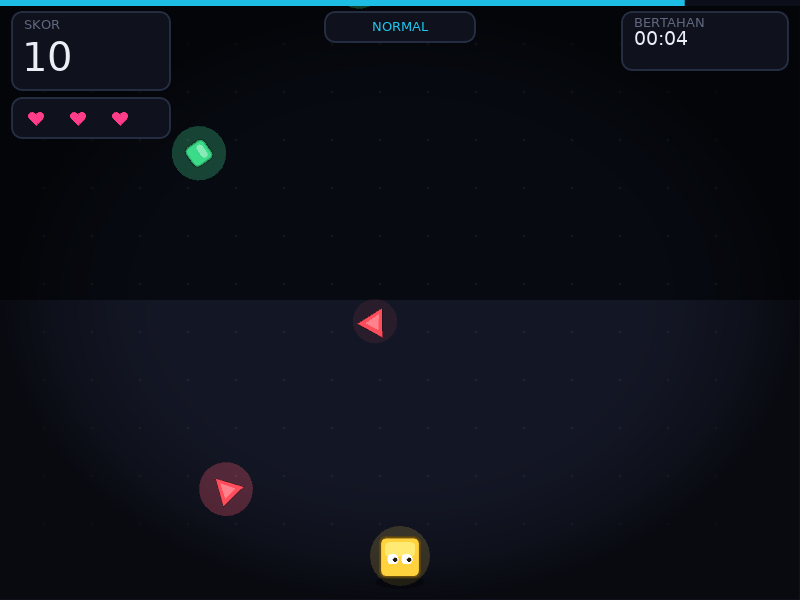
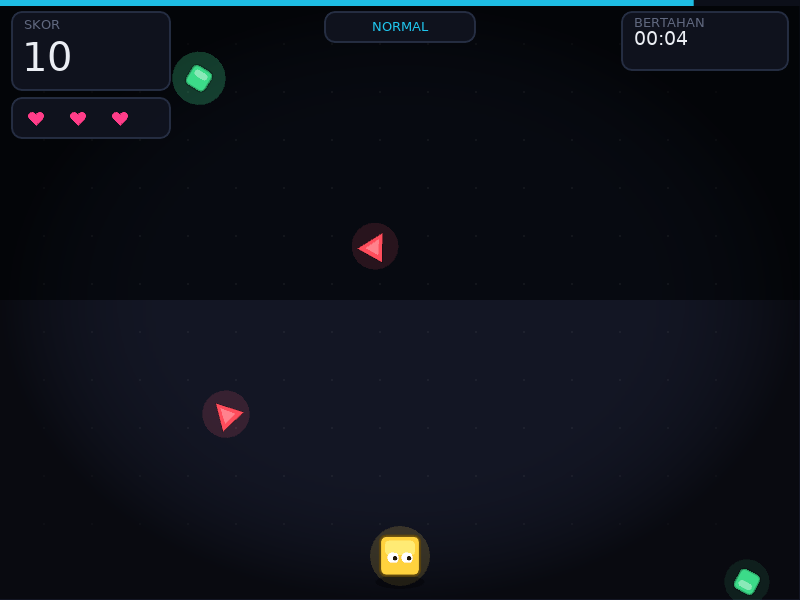
feat: v1.2.0 - combo, mute, ten rules, richer look (#5)
* feat: add combo streak, mute, hint banners and two new rules

Combo multiplier x1-x5, every fourth consecutive catch raises it. Mute with M anywhere. Every rule carries an Indonesian hint shown under the banner text. New rules HUJAN (double spawn, tag spawn) and SKOR GANDA (double score, tag scoring). Arena background pre-rendered to a canvas for perf. Best combo persisted. errorhandler fails fast instead of hanging the window.

* chore: prepare v1.2.0 and refresh screenshots

CHANGELOG promoted to v1.2.0 in English and Indonesian. README references the v1.2.0 artifacts. main.lua now fails fast with a printed error and a non-zero exit when running with --screenshot instead of hanging the window. Screenshots regenerated on the new design.

diff --git a/README.id.md b/README.id.md
@@ -1,4 +1,4 @@
-<div align="center">
+<div align="center">
   <img src="assets/brand/icon-512.png" alt="Flip30 logo" width="120" />
   <h1>Flip30: Aturan Berganti Setiap 30 Detik</h1>
   <p><b>Tangkap makanan, hindari musuh, dan beradaptasi setiap 30 detik<br/>saat aturan berubah di depan matamu.</b></p>
@@ -66,15 +66,17 @@
 | **Kesulitan** | Kecepatan jatuh dan laju spawn naik seiring waktu; kamu punya tiga nyawa per sesi |
 | **Skor terbaik** | Skor tertinggi disimpan secara lokal di `highscore.txt`, dirayakan saat rekor baru |
 | **Timer bertahan** | HUD menampilkan berapa lama kamu bertahan, mm:ss |
+| **Combo** | Setiap 4 tangkapan berturut-turut menaikkan multiplier sampai x5; kena musuh meresetnya |
 | **Dua aturan di menit kedua** | Setelah menit ke-2, dua aturan aktif bersamaan; keduanya tidak boleh punya tag yang sama |
 | **Pause** | Tekan P untuk menjeda aksi, tekan P lagi untuk lanjut |
+| **Mute** | Tekan M untuk membisukan SFX, di mana pun |
 
 ### Aturan yang berganti timer
 
 | Fitur | Deskripsi |
 | --- | --- |
 | **Ganti aturan 30 detik** | Setiap 30 detik aturan yang aktif di-revert dan aturan acak baru di-apply |
-| **Delapan aturan** | KONTROL TERBALIK, GRAVITASI MATI, GRAVITASI NAIK, MUSUH JADI POIN, TUKAR WARNA, LAYAR GELAP, SEMUA 2X CEPAT, TIDAK BISA BERHENTI |
+| **Sepuluh aturan** | KONTROL TERBALIK, GRAVITASI MATI, GRAVITASI NAIK, MUSUH JADI POIN, TUKAR WARNA, LAYAR GELAP, SEMUA 2X CEPAT, TIDAK BISA BERHENTI, HUJAN, SKOR GANDA |
 | **Pilihan adil** | Aturan yang sama tidak pernah aktif dua kali berturut-turut; aturan dengan tag yang sama tidak pernah aktif bersamaan |
 | **Banner pengumuman** | Banner besar selama dua detik saat action melambat ke 0.3x |
 | **Progress bar** | Bar timer tipis di bagian atas layar |
@@ -98,7 +100,7 @@
 
 | Fitur | Deskripsi |
 | --- | --- |
-| **Test headless** | 197 assertion berjalan di bawah LuaJIT di CI |
+| **Test headless** | 227 assertion berjalan di bawah LuaJIT di CI |
 | **Kode terformat** | StyLua diwajibkan secara lokal dan di CI |
 | **Mode artwork** | Capture `--screenshot` deterministik yang dipakai di README ini |
 | **Kanvas responsif** | Virtual canvas 800x600 di-letterbox ke ukuran jendela apa pun |
@@ -137,11 +139,11 @@
 ### Opsi A: Unduh build siap pakai (paling mudah)
 
 1. Buka halaman [Releases](https://github.com/nekonaru/flip30/releases)
-2. Unduh `flip30-1.1.0-win64.zip` di Windows, atau `flip30-1.1.0.love` di platform lain
-3. Windows: extract zip ke mana saja lalu jalankan `Flip30.exe`. Platform lain: instal LÖVE 11.5, lalu jalankan `love flip30-1.1.0.love`
+2. Unduh `flip30-1.2.0-win64.zip` di Windows, atau `flip30-1.2.0.love` di platform lain
+3. Windows: extract zip ke mana saja lalu jalankan `Flip30.exe`. Platform lain: instal LÖVE 11.5, lalu jalankan `love flip30-1.2.0.love`
 
 > [!IMPORTANT]
-> Gunakan `flip30-1.1.0-win64.zip` di Windows. Gunakan `flip30-1.1.0.love` hanya dengan instalasi LÖVE 11.5 terpisah.
+> Gunakan `flip30-1.2.0-win64.zip` di Windows. Gunakan `flip30-1.2.0.love` hanya dengan instalasi LÖVE 11.5 terpisah.
 
 ### Opsi B: Build dari source (untuk development / untuk membaca atau mengubah kode)
 
@@ -190,7 +192,7 @@ Di Windows, cara tercepat adalah `winget install --id Love2d.Love2d -e`.
 love .
 ```
 
-Menu terbuka dan game langsung bisa dimainkan. Untuk menghasilkan artifact rilis (`.love` archive dan build Windows), jalankan `scripts/build.ps1 -Version 1.1.0` di Windows.
+Menu terbuka dan game langsung bisa dimainkan. Untuk menghasilkan artifact rilis (`.love` archive dan build Windows), jalankan `scripts/build.ps1 -Version 1.2.0` di Windows.
 
 ---
 
@@ -209,7 +211,8 @@ Menu terbuka dan game langsung bisa dimainkan. Untuk menghasilkan artifact rilis
 
 - **Bergerak**: A/D atau tombol panah
 - **Pause**: P untuk menjeda, P untuk lanjut; ESC ke menu
-- **Tangkap makanan**: catatan hijau, +10 poin
+- **Mute**: M, di mana pun
+- **Tangkap makanan**: catatan hijau, +10 poin, dan streak combo naik sampai x5
 - **Hindari musuh**: segitiga merah, -1 nyawa, kamu mulai dengan 3
 - **Bertahan**: makin lama kamu bertahan, makin cepat gamenya; setelah menit ke-2 dua aturan bisa aktif bersamaan
 - **Main lagi**: Enter atau Space di layar game over; Esc kembali ke menu atau keluar
@@ -282,7 +285,7 @@ stylua --check .
 
 | Check | Requirement |
 | --- | --- |
-| `luajit tests/headless_tests.lua` | Semua 197 assertion lolos |
+| `luajit tests/headless_tests.lua` | Semua 227 assertion lolos |
 | `stylua --check .` | Tidak ada output (tidak ada diff) |
 
 Formatting dikonfigurasi di `stylua.toml`.

diff --git a/README.md b/README.md
@@ -1,4 +1,4 @@
-<div align="center">
+<div align="center">
   <img src="assets/brand/icon-512.png" alt="Flip30 logo" width="120" />
   <h1>Flip30: The Rules Change Every 30 Seconds</h1>
   <p><b>Catch the food, dodge the enemies, and adapt every 30 seconds<br/>as the rules flip out from under you.</b></p>
@@ -61,22 +61,24 @@
 
 | Feature | Description |
 | --- | --- |
-| **Player** | Slide the 40x40 sticky note with A/D or the arrow keys, clamped to the arena |
+| **Player** | Slide the 40x40 sticky note with A/D or the arrow keys, clamped to the arena. Eyes track where it is heading |
 | **Objects** | Green food is +10 points, red enemies cost 1 life, played on an 800x600 canvas |
 | **Difficulty** | Fall speed and spawn rate ramp up over time; you get three lives per run |
 | **High score** | Best score saved locally to `highscore.txt`, celebrated on a new record |
 | **Survival timer** | The HUD shows how long you have lasted, mm:ss |
+| **Combo** | Every 4 catches in a row raises the multiplier, up to x5; an enemy hit resets it |
 | **Two rules at two minutes** | Past 2:00, two rules run at once; they never share a tag |
 | **Pause** | Press P to freeze the action and P again to resume |
+| **Mute** | Press M to silence SFX, anywhere |
 
 ### Rules on a timer
 
 | Feature | Description |
 | --- | --- |
 | **Thirty second flips** | Every 30 seconds the active rule is reverted and a random one is applied |
-| **Eight rules** | KONTROL TERBALIK, GRAVITASI MATI, GRAVITASI NAIK, MUSUH JADI POIN, TUKAR WARNA, LAYAR GELAP, SEMUA 2X CEPAT, TIDAK BISA BERHENTI |
+| **Ten rules** | KONTROL TERBALIK, GRAVITASI MATI, GRAVITASI NAIK, MUSUH JADI POIN, TUKAR WARNA, LAYAR GELAP, SEMUA 2X CEPAT, TIDAK BISA BERHENTI, HUJAN, SKOR GANDA |
 | **Fair picks** | Never the same rule twice in a row; rules sharing a tag are never active together |
-| **Announcement banner** | Big two second banner while the action slows to 0.3x |
+| **Announcement banner** | Big two second banner with a description line while the action slows to 0.3x |
 | **Countdown bar** | Thin timer bar across the top of the screen |
 
 ### Look and feel
@@ -98,7 +100,7 @@
 
 | Feature | Description |
 | --- | --- |
-| **Headless tests** | 197 assertions run under LuaJIT in CI |
+| **Headless tests** | 227 assertions run under LuaJIT in CI |
 | **Formatted code** | StyLua enforced locally and in CI |
 | **Artwork mode** | Deterministic `--screenshot` captures used for this README |
 | **Responsive canvas** | 800x600 virtual canvas letterboxed to any window size |
@@ -137,11 +139,11 @@
 ### Option A: Download the prebuilt build (easiest)
 
 1. Open the [Releases](https://github.com/nekonaru/flip30/releases) page
-2. Download `flip30-1.1.0-win64.zip` on Windows, or `flip30-1.1.0.love` on other platforms
-3. Windows: extract the zip anywhere and run `Flip30.exe`. Other platforms: install LÖVE 11.5, then run `love flip30-1.1.0.love`
+2. Download `flip30-1.2.0-win64.zip` on Windows, or `flip30-1.2.0.love` on other platforms
+3. Windows: extract the zip anywhere and run `Flip30.exe`. Other platforms: install LÖVE 11.5, then run `love flip30-1.2.0.love`
 
 > [!IMPORTANT]
-> Use `flip30-1.1.0-win64.zip` on Windows. Use `flip30-1.1.0.love` only with a separate LÖVE 11.5 install.
+> Use `flip30-1.2.0-win64.zip` on Windows. Use `flip30-1.2.0.love` only with a separate LÖVE 11.5 install.
 
 ### Option B: Build from source (for development / to read or change the code)
 
@@ -190,7 +192,7 @@ On Windows, the fastest install is `winget install --id Love2d.Love2d -e`.
 love .
 ```
 
-The menu opens and the game is fully playable. To produce the release artifacts (`.love` archive and Windows build), run `scripts/build.ps1 -Version 1.1.0` on Windows.
+The menu opens and the game is fully playable. To produce the release artifacts (`.love` archive and Windows build), run `scripts/build.ps1 -Version 1.2.0` on Windows.
 
 ---
 
@@ -209,7 +211,8 @@ The menu opens and the game is fully playable. To produce the release artifacts 
 
 - **Move**: A/D or the arrow keys
 - **Pause**: P to pause, P to resume; ESC to menu
-- **Catch food**: green note, +10 points
+- **Mute**: M, anywhere
+- **Catch food**: green note, +10 points, and a combo streak builds up to x5
 - **Avoid enemies**: red triangle, -1 life, you start with 3
 - **Survive**: the longer you last, the faster the game gets; past 2:00 two rules can run at once
 - **Restart**: Enter or Space on the game over screen; Esc returns to the menu or quits

diff --git a/CHANGELOG.id.md b/CHANGELOG.id.md
@@ -2,6 +2,23 @@
 
 Perubahan Flip30 didokumentasikan di sini. Bahasa Inggris adalah sumbernya; Bahasa Indonesia (file ini) adalah terjemahan yang selalu selaras.
 
+## v1.2.0
+
+Upgrade terbesar sejauh ini: combo scoring, dua aturan baru, dan presentasi paling kaya.
+
+### Fitur baru
+
+- **Streak combo.** Setiap 4 tangkapan berturut-turut menaikkan multiplier skor sebesar satu level, maksimal x5. Kena musuh meresetnya. Combo terbaik sepanjang masa disimpan secara lokal dan ditampilkan di layar game over.
+- **Mute.** Tekan M untuk membisukan semua SFX, di mana pun.
+- **Sepuluh aturan.** Dua aturan baru: `HUJAN` (laju spawn dua kali lipat, tag `spawn`) dan `SKOR GANDA` (semua poin dikali dua, tag `scoring`). Setiap aturan sekarang membawa deskripsi Indonesia yang tampil di bawah teks banner.
+- **Mata sticky note.** Mata player mengikuti arah gerak, dengan bob idle dan squash and stretch saat kena hit.
+- **Tampilan lebih kaya.** Arena gradasi yang di-prerender dengan dot grid dan vignette, glow halo additive, objek jatuh berputar atau bergoyang, HUD chip (skor, nyawa, pill aturan, timer bertahan, chip combo, chip mute, chip 2x di fase dua aturan), siluet jatuh di belakang menu, banner dengan garis deskripsi dan border neon, dan pitch SFX swap berbeda per tag.
+
+### Peningkatan
+
+- **Peralatan rilis.** `scripts/build.ps1` membaca format changelog terkini, menghasilkan release notes dwi-bahasa Inggris dan Indonesia dengan Install / Update dan tabel SHA-256, dan menyertakan dokumen Indonesia ke dalam build Windows.
+- **Test headless.** 227 assertion termasuk cakupan eskalasi dua aturan dan combo multiplier.
+
 ## v1.1.0
 
 Rilis kedua Flip30, fokus pada feel, antarmuka, dan fase late game.

diff --git a/CHANGELOG.md b/CHANGELOG.md
@@ -2,6 +2,23 @@
 
 Changes to Flip30 are documented here. English is the source; Indonesian ([CHANGELOG.id.md](CHANGELOG.id.md)) is a faithful translation kept in sync.
 
+## v1.2.0
+
+The biggest upgrade yet: combo scoring, two new rules, and the richest presentation so far.
+
+### New features
+
+- **Combo streak.** Every 4 catches in a row raises the score multiplier by one, up to x5. An enemy hit resets it. The best combo ever is saved locally and shown at game over.
+- **Mute.** Press M to silence all SFX, anywhere.
+- **Ten rules.** Two new rules: `HUJAN` (double object spawn rate, tag `spawn`) and `SKOR GANDA` (double score gains, tag `scoring`). Every rule now carries an in-game Indonesian description shown under the banner text.
+- **Sticky note eyes.** The player's eyes track its direction of travel, with an idle bob, and squash and stretch on impacts.
+- **Richer look.** Pre-rendered gradient arena with dot grid and vignette, additive glow halos, spinning or wobbling falling objects, chip-based HUD (score, lives, rule pill, survival timer, combo chip, mute chip, 2x chip in the two-rule phase), drifting silhouettes behind the menu, banner with description line and glowing border, and a pitch that varies per tag for the rule-swap jingle.
+
+### Improvements
+
+- **Release tooling.** `scripts/build.ps1` parses the current changelog shape, emits bilingual English and Indonesian release notes with Install / Update and SHA-256 tables, and bundles the Indonesian docs into the Windows build.
+- **Headless tests.** 227 assertions including dual-rule escalation and combo-multiplier coverage.
+
 ## v1.1.0
 
 The second release of Flip30, focused on feel, the interface, and the late game.
